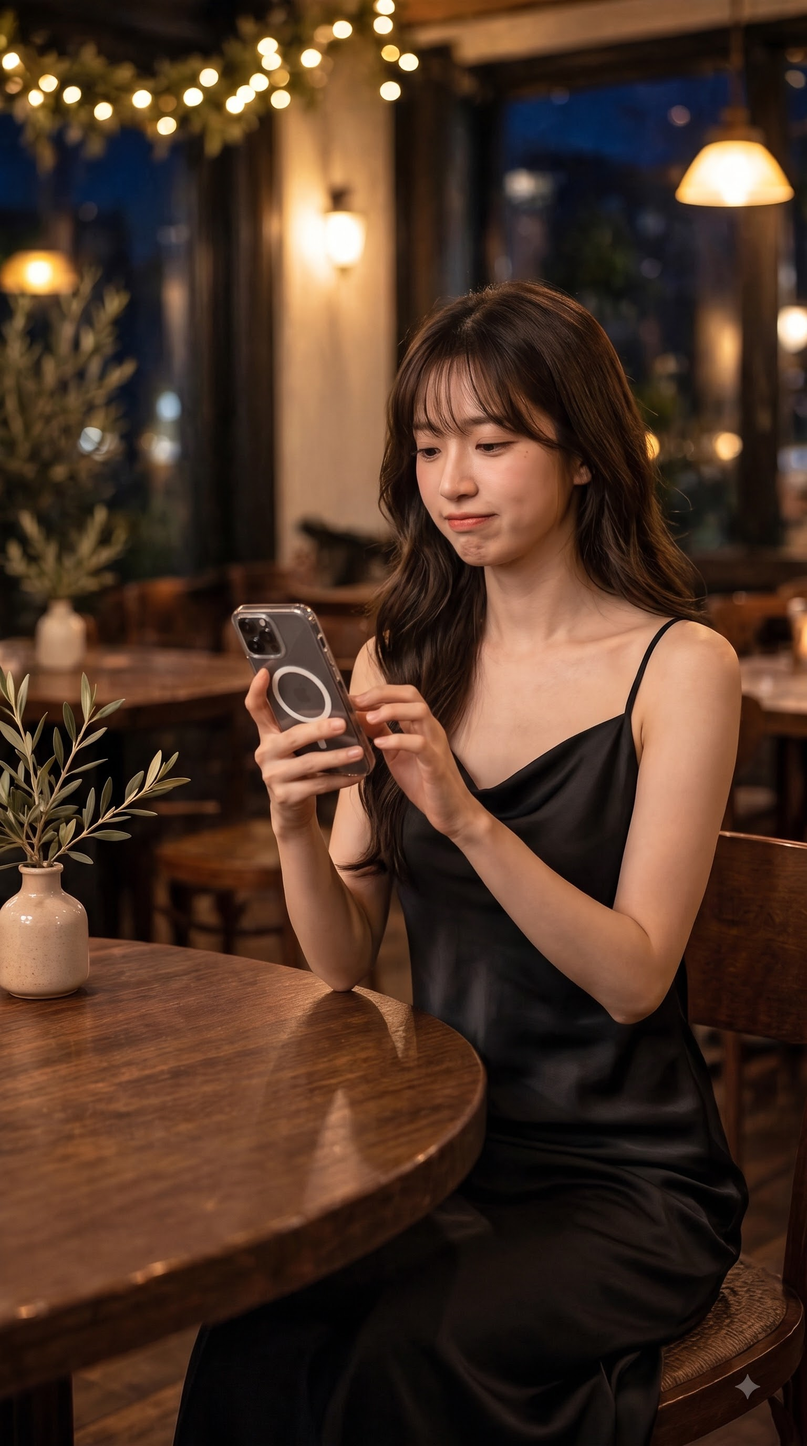
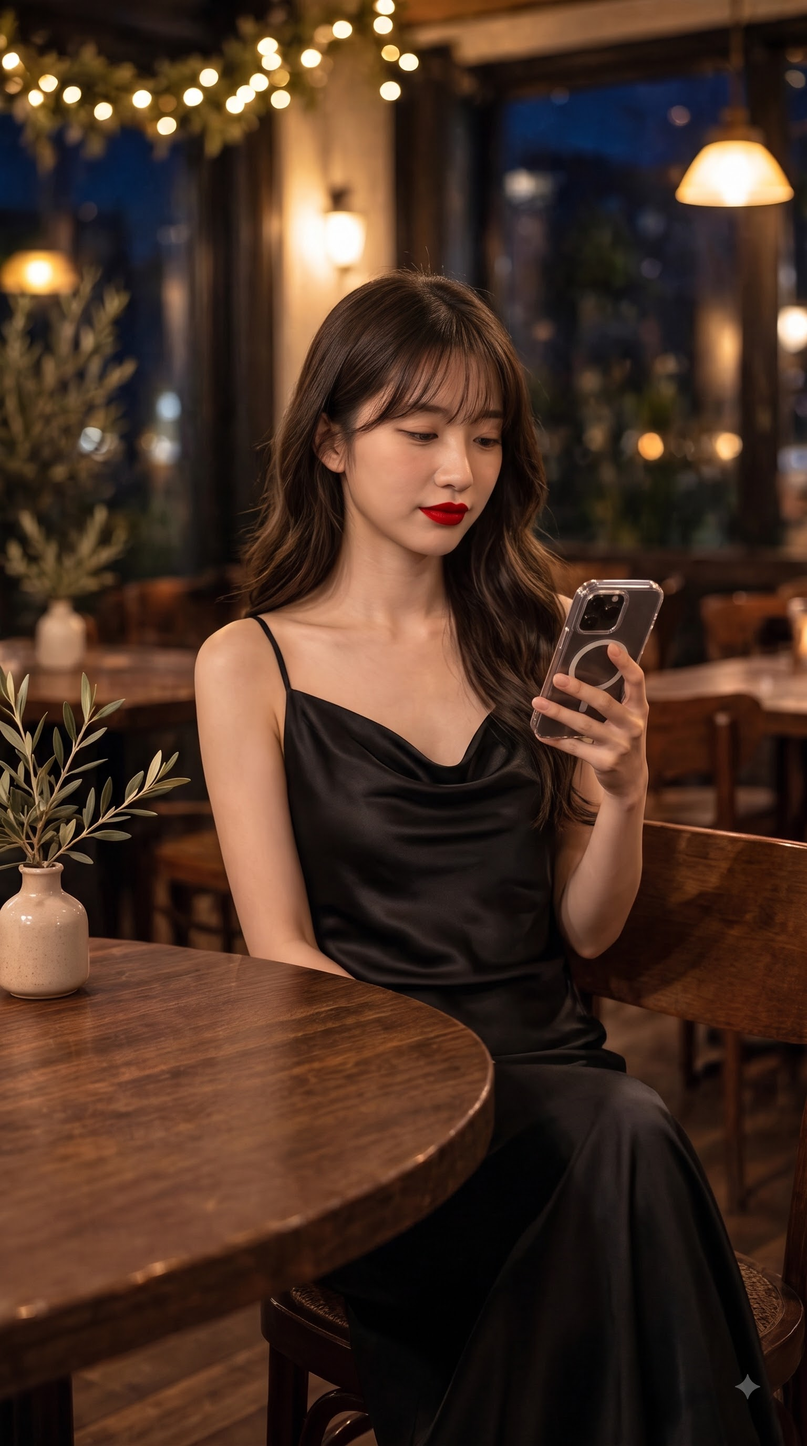
ep006: duyệt frame sh020 v6 + sh040 v4 (son đỏ, cổ đổ, bỏ vòng tay)
- sh020 v6: son đỏ đậm, không vòng tay, móng tự nhiên
- sh040 v4: son đỏ đậm, cổ đổ đúng mẫu SANJOLI
- episode.yaml cập nhật frame + prompt shas

diff --git a/05_episodes/ep006-hen-ho-voi-ai/work-log.md b/05_episodes/ep006-hen-ho-voi-ai/work-log.md
@@ -53,3 +53,10 @@
 - Ghế: gỗ tối cả 4 (soi t=4 + t=7.5). Sáng: 55.7 / 56.0 / 55.1 / 54.9 — chênh ~1 điểm (take001 chênh 20 điểm). Váy đen đúng mẫu cả 4.
 - Lưu ý: sh010 đĩa bị khăn ăn phủ giữa clip (do động tác chỉnh khăn); sh040 còn 2 khách mờ phía sau (từ frame); watermark Veo góc dưới phải (crop lúc dựng).
 - CHỜ Richard duyệt take002 + nghe giọng từng shot (giữ tiếng Veo nếu Bắc).
+
+## 2026-11-19 18:12–19:29 — sửa son + cổ váy + vòng tay, duyệt frame mới
+- Richard phát hiện son lệch (sh010/sh030 đỏ, sh020/sh040 hồng nhạt) + móng lệch (móng đỏ chỉ ở take001 sh010, take002 đều tự nhiên). Nguyên nhân: prompt ảnh sh020/sh040 thiếu "son đỏ đậm"; QC frame sót son + móng.
+- Richard chốt móng TỰ NHIÊN cho cả tập. Cổ V ở sh040 v3 KHÔNG đúng mẫu (mẫu thật cổ đổ nhẹ, cong mềm, nếp rủ giữa ngực — đã đối chiếu ảnh mẫu) nên phải sửa lại cổ đổ.
+- Frame mới (Flow Nano Banana, 1 edit từ master, 0cr): sh020 v5 (son đỏ) → v6 (bỏ vòng tay; lần 1 bị chặn chính sách, thử lại với prompt tả cổ tay trống thì qua), sh040 v3 (son đỏ, cổ V sai) → v4 (cổ đổ đúng mẫu). Cả 2: son đỏ đậm, móng tự nhiên, mặt/váy/nền khớp.
+- 19:29 Richard DUYỆT cả 2 frame. Đã đổi tên chuẩn: sh020-first-frame.jpg = v6 (sha 08323f4f…, Flow 870638e7…), sh040-first-frame.jpg = v4 (sha 554fda21…, Flow a465e73c…). Frame cũ giữ lại tên versioned. episode.yaml cập nhật frame + prompt shas, validator đạt.
+- Đang gen lại 2 clip sh020/sh040 take003 (20cr, số dư 790 → 770).
